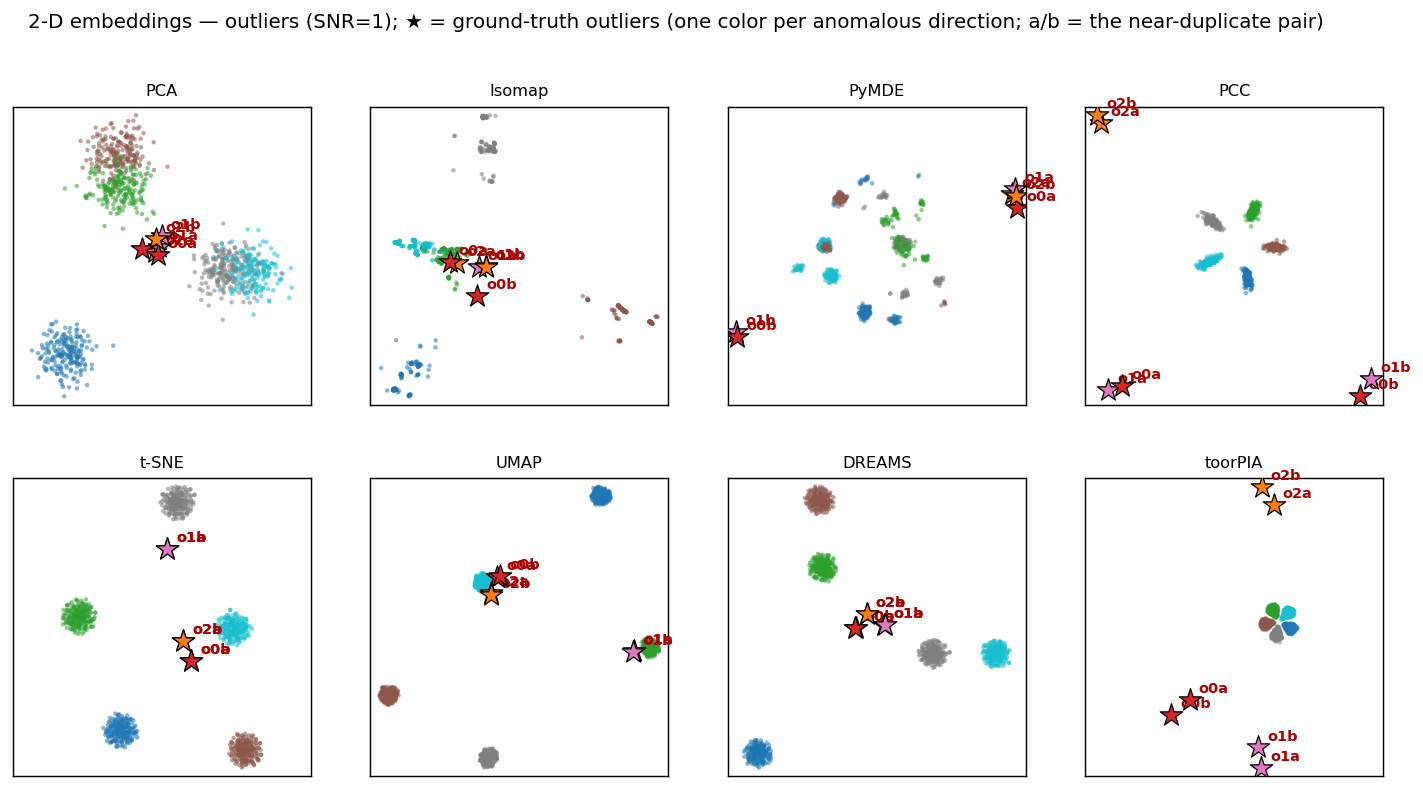
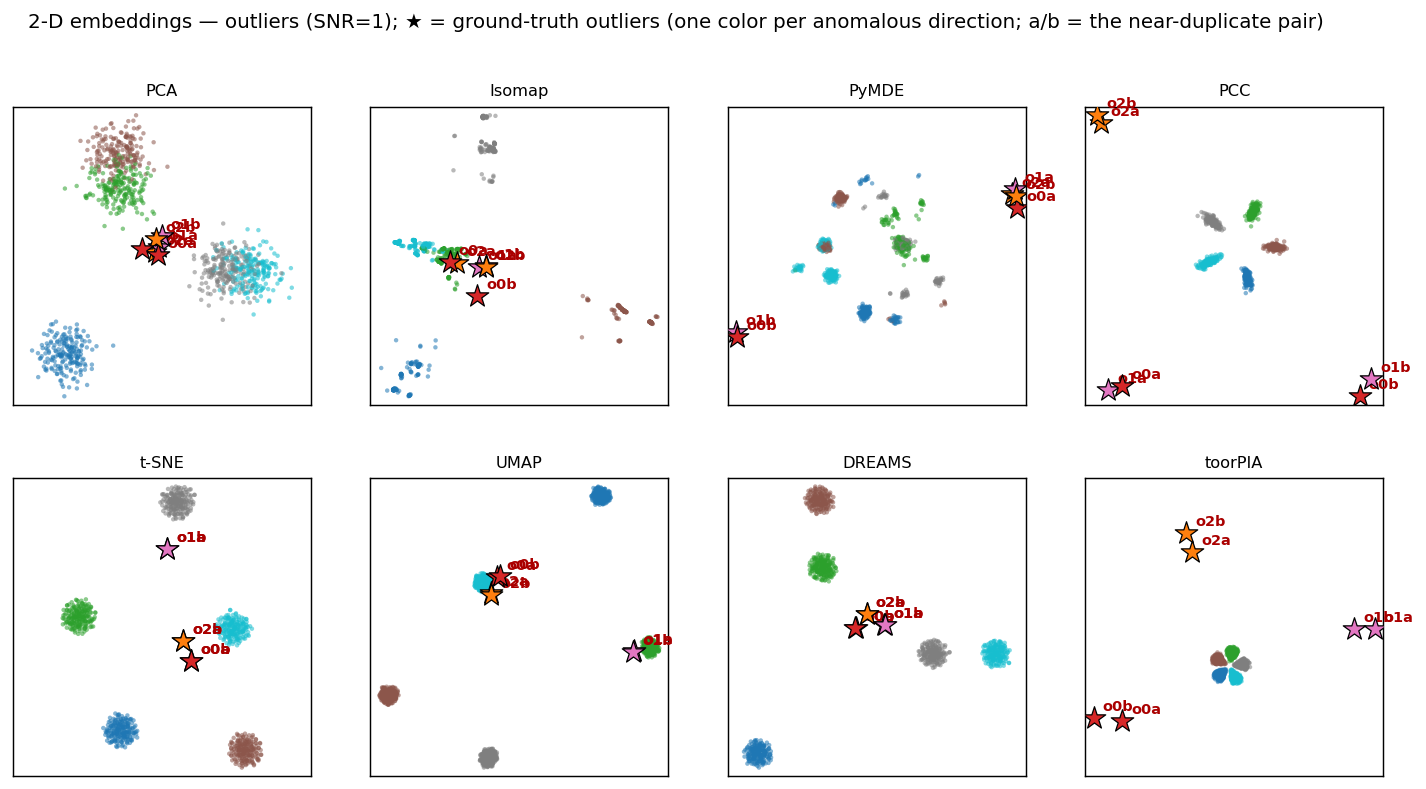
Refresh the paper to the v1.4.0 results and restore the eighth table row
The table generator capped every table at seven method rows, so once DREAMS
became the eighth method the last row of each table was silently dropped
(UMAP on density/outliers, Isomap on clusters/transition/populations, and
toorPIA on the addplot table that the supplement text is about). The
generator now takes every row and asserts eight.

Tables are regenerated from the v1.4.0 REPORT.md, the eleven figures that
changed at v1.4.0 are recopied, and the inline numbers follow (toorPIA only;
all other methods are unchanged). The populations table now carries the
minority-pair rho as a third scored column; the text states that PCA tops
that column and why the diagnostic pair, not the composite, is the reading.
Data Availability cites the v1.4.0 version DOI; CITATION.cff lists the
v1.3.0 and v1.4.0 version DOIs. main.tex starts with \pdfoutput=1 for
arXiv's pdflatex path, and the arXiv metadata abstract (1920-char limit) is
kept alongside the sources.

diff --git a/paper/main.tex b/paper/main.tex
@@ -1,3 +1,4 @@
+\pdfoutput=1
 \documentclass[11pt]{article}
 
 \usepackage[utf8]{inputenc}
@@ -412,10 +413,13 @@ Each dataset's ranking table scores \emph{distance fidelity only}. The
 methods are ordered twice --- by full $\rho$ and by first-mode near $\rho$
 (both vs.-ambient) --- and each order awards 5 points to the 1st place down
 to 1 point to the 5th (6th--8th receive 0). The composite $\Sigma$ is the
-sum of the two, and rows are sorted by $\Sigma$. The outliers dataset adds a
-third scored column on the anomaly-pair $\rho$ (same $5\ldots1$ scheme,
-$\Sigma$ = full + near + outlier), so a method cannot rank well there while
-failing the single-point question. The $k$-NN reference block is deliberately
+sum of the two, and rows are sorted by $\Sigma$. The outliers and
+populations datasets each add a third scored column on a
+membership-restricted $\rho$ (same $5\ldots1$ scheme, $\Sigma$ = full +
+near + third): the anomaly-pair $\rho$ on outliers and the minority-pair
+$\rho$ (pairs with at least one minority endpoint) on populations, so a
+method cannot rank well there while failing the single-point or the
+minority question. The $k$-NN reference block is deliberately
 unscored (\S\ref{sec:recallbias}).
 
 Aggregation follows one convention throughout: stochastic methods run
@@ -569,7 +573,7 @@ two datasets connect continuously.
 \section{Results}
 \label{sec:results}
 
-All ranking tables report the committed v1.3.0 results at SNR${=}1$
+All ranking tables report the committed v1.4.0 results at SNR${=}1$
 ($D{=}768$, $N{=}1000$); $\rho$ values are vs.-ambient (the noisy distances
 the methods actually saw). The corresponding vs.-truth values are committed in
 the artifact's per-run CSVs and lead to the same qualitative conclusions.
@@ -640,7 +644,7 @@ fixed-radius global column.
 Seven small dense Gaussian clusters on mutually orthogonal axes (the global
 geometry spans six affine dimensions, so a 2-D linear projection cannot win by
 construction). toorPIA tops the composite ($\Sigma{=}8$: best global $\rho$
-0.586, third-best near band); DREAMS leads the near band (0.469, ahead of
+0.585, third-best near band); DREAMS leads the near band (0.469, ahead of
 t-SNE's 0.393) and places second ($\Sigma{=}6$) despite a fifth-place global
 $\rho$ (0.413); PCC again pairs a competitive global $\rho$ with an
 $\approx$9$\times$ crush of the tightest cluster (Table~\ref{tab:clusters}).
@@ -737,9 +741,9 @@ standard statistic used everywhere else, restricted by \emph{endpoint
 membership} instead of by distance percentile: the anomaly-pair Shepard $\rho$
 (``outlier $\rho$''), which feeds the composite as a third $5..1$ column so
 that no local reading can outrank it (Table~\ref{tab:outliers}). toorPIA is
-clearly first (outlier $\rho$ 0.615, deterministic --- $\approx$4$\times$ the
+clearly first (outlier $\rho$ 0.649, deterministic --- $\approx$4$\times$ the
 runner-up PCA at 0.156), pairs each same-kind anomaly co-directionally
-(pair angle $\le$10$^\circ$), and holds the best global $\rho$ (0.759). The
+(pair angle $\le$10$^\circ$), and holds the best global $\rho$ (0.768). The
 neighbor-graph methods sit at the bottom (t-SNE 0.083, UMAP 0.062): their
 anomalies land at or inside bulk clusters --- t-SNE additionally fuses each
 same-kind pair into a single point, a failure that a local $k$-NN reading
@@ -782,8 +786,8 @@ population whose composition is unknown in advance. Extracting the minority
 from the map requires two readings positive \emph{at once}: the minority drawn
 as a recognizable separate group (cross-population $\rho$) and a trustworthy
 internal structure (minority-internal $\rho$). At 5\%, only toorPIA holds both
-clearly positive (minority-internal 0.211, cross-population 0.654, best global
-$\rho$ 0.813, deterministic). PCA places the minority correctly
+clearly positive (minority-internal 0.244, cross-population 0.660, best global
+$\rho$ 0.821, deterministic). PCA places the minority correctly
 (cross-population 0.683, the best) but its internal structure is gone
 (minority-internal $-0.025$: a correctly placed featureless blob). t-SNE and
 UMAP are the mirror image --- strong minority internals (0.658 / 0.451) with
@@ -792,9 +796,16 @@ distance information. DREAMS inherits exactly t-SNE's failure mode at a
 higher score: minority-internal 0.652 with cross-population 0.068 --- the
 minority is drawn as a coherent group flung to an arbitrary position --- and
 because its near-band $\rho$ (0.469) again leads, DREAMS \emph{ties} toorPIA
-on the two-column composite ($\Sigma{=}8$) while failing the reading the
-dataset exists to test; the diagnostic pair, not the composite, separates
-them. PCC fails both (0.023 / 0.198) --- and the failure is
+on the near + global columns ($5{+}3$ vs.\ $3{+}5$) while failing the reading
+the dataset exists to test; only the third scored column separates them
+($\Sigma{=}12$ vs.\ 10). That column --- the minority-pair $\rho$ over
+every pair with at least one minority endpoint --- is the single number that
+drops if either reading fails (DREAMS 0.137, t-SNE 0.070, UMAP 0.046), but it
+is not the full reading by itself: PCA tops it (0.706, ahead of toorPIA's
+0.685) because at 5\% the minority--majority pairs make up 95\% of the
+minority-involving pairs, so a correctly \emph{placed} blob with no internal
+structure still scores high; the diagnostic pair, not any single composite,
+separates the methods. PCC fails both (0.023 / 0.198) --- and the failure is
 \emph{silent}: PCC still posts the second-best global $\rho$ (0.761), so
 nothing in the global metric warns that the minority was destroyed. This is
 consistent with reference-point subsampling: pairs internal to the minority
@@ -856,17 +867,17 @@ and PCC --- expose no out-of-sample operation at all; for monitoring, that is
 itself the finding: adding data means re-fitting, and a re-fit re-arranges the
 map. Among the operable methods (Table~\ref{tab:addplot}), only toorPIA
 answers both questions: every anomaly lands far outside the normal region
-(median 9.7$\times$ the bulk radius, minimum 8.6$\times$; deterministic) and
+(median 9.7$\times$ the bulk radius, minimum 8.7$\times$; deterministic) and
 its direction identifies the source cluster (attribution 10/10, median angle
-to its own cluster 1.0$^\circ$, pair angle 1.7$^\circ$). For PCA, Isomap,
+to its own cluster 0.9$^\circ$, pair angle 0.6$^\circ$). For PCA, Isomap,
 UMAP, and DREAMS the anomalies land \emph{inside or at} the normal clusters
 (median
-radius ratios 0.96--1.34, minima down to 0.26): the anomaly is drawn as just
+radius ratios 0.97--1.34, minima down to 0.28): the anomaly is drawn as just
 another normal point of its source cluster, so the nominally high attribution
 accuracy (0.8--1.0) carries no alarm --- detection silently fails. DREAMS is
 the sharpest instance of the pattern: the best attribution geometry of the
-non-toorPIA methods (median own-cluster angle 0.8$^\circ$, pair angle
-0.2$^\circ$) attached to a median radius ratio of 1.04 --- a perfect
+non-toorPIA methods (median own-cluster angle 0.5$^\circ$, pair angle
+0.3$^\circ$) attached to a median radius ratio of 1.04 --- a perfect
 direction with no alarm. Added
 normal controls land correctly for every operable method (ratio 0.87--1.07).
 
@@ -937,8 +948,9 @@ family) are always reported alongside the primary ones.
 The transparency this buys is visible in the results themselves: the
 first-mode near band goes to DREAMS --- not toorPIA --- on every
 one of the five datasets; on the transition dataset the composite goes to
-PCC with toorPIA joint third (\S\ref{sec:transition}); on populations DREAMS
-ties toorPIA's composite $\Sigma$ (\S\ref{sec:populations}); and the
+PCC with toorPIA joint third (\S\ref{sec:transition}); on populations the
+scored minority-pair $\rho$ goes to PCA, not toorPIA, and DREAMS ties toorPIA
+on the near + global columns (\S\ref{sec:populations}); and the
 hyperparameter-sensitivity
 sweep discloses that tuned t-SNE overtakes the near-band $\rho$ leaders on
 density and draws level with toorPIA's density composite
@@ -995,24 +1007,24 @@ the methods the $k$-NN reference favors; a recent local-plus-global hybrid
 (DREAMS) that takes the near band on every dataset yet fails the same
 single-point and minority-placement questions as the neighbor-graph family
 --- a failure only the membership-restricted $\rho$ exposes, since on
-populations its two-column composite ties the leader's; and, out of sample,
+populations its near + global columns tie the leader's; and, out of sample,
 one method
 alone placing a never-seen anomaly outside the normal region with a
 direction that identifies its source. No method wins everything --- toorPIA
-leads the composite on density, clusters, and outliers, ties DREAMS on
-populations, and is joint third on
+leads the composite on density, clusters, outliers, and populations, and is
+joint third on
 transition, while DREAMS owns the near band everywhere --- and the
 benchmark reports all of it. Because every number is recomputable offline
 from committed artifacts, including the closed-source method's output
-coordinates, the release (v1.3.0, archived on Zenodo) is intended as a
+coordinates, the release (v1.4.0, archived on Zenodo) is intended as a
 reproducible, externally citable characterization that future work --- and
 other people's papers --- can cite instead of vendor claims.
 
 \section*{Data and Code Availability}
 The benchmark code, committed results, figures, and toorPIA output-coordinate
 caches are available at \url{https://github.com/toorpia/dr-fidelity-benchmark}
-(release tag v1.3.0), archived at Zenodo (version DOI
-\href{https://doi.org/10.5281/zenodo.21366902}{10.5281/zenodo.21366902};
+(release tag v1.4.0), archived at Zenodo (version DOI
+\href{https://doi.org/10.5281/zenodo.21380823}{10.5281/zenodo.21380823};
 all versions:
 \href{https://doi.org/10.5281/zenodo.21189374}{10.5281/zenodo.21189374}).
 This paper reports the results committed at that tag.

diff --git a/paper/tables/populations.tex b/paper/tables/populations.tex
@@ -1,20 +1,21 @@
 % AUTO-GENERATED from REPORT.md --- do not hand-edit values
 \begin{table}[t]
 \centering
-\caption{Imbalanced two populations (95\% vs.\ 5\%): distance-fidelity ranking at SNR${=}1$.\; Composite points: 1st$\to$5 \dots\ 5th$\to$1 on the full-$\rho$ order and on the near-$\rho$ order; rows sorted by $\Sigma$. $\rho$ columns are Shepard (Spearman) correlations vs.-ambient. \textbf{Bold} = best in column, \textit{italic} = worst; \textsuperscript{\dag} = outright-failure flag (negative near-band $\rho$, or worst tight-cluster crush exceeding $5\times$). Brackets are bootstrap 95\% CIs over $R{=}3$ seeds; deterministic methods (PCA, Isomap, DREAMS, toorPIA) show point values. recall/trust/continuity are the variable-radius $k$-NN reference block (biased; unscored). Values transcribed verbatim from the v1.3.0 committed results.}
+\caption{Imbalanced two populations (95\% vs.\ 5\%): distance-fidelity ranking at SNR${=}1$.\; Composite points: 1st$\to$5 \dots\ 5th$\to$1 on the full-$\rho$ order and on the near-$\rho$ order and on the minority-$\rho$ order; rows sorted by $\Sigma$. $\rho$ columns are Shepard (Spearman) correlations vs.-ambient. \textbf{Bold} = best in column, \textit{italic} = worst; \textsuperscript{\dag} = outright-failure flag (negative near-band $\rho$, or worst tight-cluster crush exceeding $5\times$). Brackets are bootstrap 95\% CIs over $R{=}3$ seeds; deterministic methods (PCA, Isomap, DREAMS, toorPIA) show point values. recall/trust/continuity are the variable-radius $k$-NN reference block (biased; unscored). Values transcribed verbatim from the v1.4.0 committed results.}
 \label{tab:populations}
 \resizebox{\textwidth}{!}{%
-\begin{tabular}{lccccccccc}
+\begin{tabular}{lccccccccccc}
 \toprule
-method & full & near & $\Sigma$ & full $\rho$ (global) & near $\rho$ (first-mode) & scale $\times$ & recall@15 & trust@15 & cont.@15 \\
+method & full & near & minor. & $\Sigma$ & full $\rho$ (global) & near $\rho$ (first-mode) & scale $\times$ & recall@15 & trust@15 & cont.@15 & minority $\rho$ \\
 \midrule
-toorPIA & \textbf{5} & 3 & \textbf{8} & \textbf{0.813} & 0.254 & 0.728 & 0.138 & 0.935 & 0.938 \\
-DREAMS & 3 & \textbf{5} & \textbf{8} & 0.638 & \textbf{0.469} & 3.322 & 0.253 & \textbf{0.949} & \textbf{0.961} \\
-PCC & 4 & 2 & 6 & 0.761 {\scriptsize[0.753, 0.764]} & 0.225 {\scriptsize[0.222, 0.234]} & 2.496 {\scriptsize[2.309, 2.650]} & 0.133 {\scriptsize[0.132, 0.134]} & 0.933 {\scriptsize[0.930, 0.935]} & 0.923 {\scriptsize[0.922, 0.936]} \\
-t-SNE & \textit{0} & 4 & 4 & 0.507 {\scriptsize[0.484, 0.518]} & 0.371 {\scriptsize[0.365, 0.375]} & 2.415 {\scriptsize[2.355, 2.438]} & \textbf{0.275 {\scriptsize[0.275, 0.276]}} & 0.948 & 0.957 {\scriptsize[0.956, 0.957]} \\
-PCA & 2 & 1 & 3 & 0.608 & 0.136 & 1.273 & \textit{0.080} & \textit{0.771} & 0.867 \\
-PyMDE & 1 & \textit{0} & 1 & 0.595 {\scriptsize[0.594, 0.666]} & 0.103 {\scriptsize[0.089, 0.125]} & 0.343 {\scriptsize[0.299, 3.383]} & 0.104 {\scriptsize[0.103, 0.105]} & 0.853 {\scriptsize[0.817, 0.869]} & \textit{0.773 {\scriptsize[0.756, 0.817]}} \\
-UMAP & \textit{0} & \textit{0} & \textit{0} & 0.445 {\scriptsize[0.411, 0.466]} & 0.108 {\scriptsize[0.104, 0.115]} & 5.407 {\scriptsize[4.442, 5.771]}\,\textsuperscript{\dag} & 0.200 {\scriptsize[0.199, 0.202]} & 0.934 {\scriptsize[0.931, 0.934]} & 0.933 {\scriptsize[0.933, 0.935]} \\
+toorPIA & \textbf{5} & 3 & 4 & \textbf{12} & \textbf{0.821} & 0.251 & 0.726 & 0.143 & 0.935 & 0.937 & 0.685 \\
+DREAMS & 3 & \textbf{5} & 2 & 10 & 0.638 & \textbf{0.469} & 3.322 & 0.253 & \textbf{0.949} & \textbf{0.961} & 0.137 \\
+PCC & 4 & 2 & 3 & 9 & 0.761 {\scriptsize[0.753, 0.764]} & 0.225 {\scriptsize[0.222, 0.234]} & 2.496 {\scriptsize[2.309, 2.650]} & 0.133 {\scriptsize[0.132, 0.134]} & 0.933 {\scriptsize[0.930, 0.935]} & 0.923 {\scriptsize[0.922, 0.936]} & 0.211 {\scriptsize[0.205, 0.255]} \\
+PCA & 2 & 1 & \textbf{5} & 8 & 0.608 & 0.136 & 1.273 & \textit{0.080} & \textit{0.771} & 0.867 & \textbf{0.706} \\
+t-SNE & \textit{0} & 4 & \textit{0} & 4 & 0.507 {\scriptsize[0.484, 0.518]} & 0.371 {\scriptsize[0.365, 0.375]} & 2.415 {\scriptsize[2.355, 2.438]} & \textbf{0.275 {\scriptsize[0.275, 0.276]}} & 0.948 & 0.957 {\scriptsize[0.956, 0.957]} & 0.070 {\scriptsize[0.047, 0.110]} \\
+PyMDE & 1 & \textit{0} & 1 & 2 & 0.595 {\scriptsize[0.594, 0.666]} & 0.103 {\scriptsize[0.089, 0.125]} & 0.343 {\scriptsize[0.299, 3.383]} & 0.104 {\scriptsize[0.103, 0.105]} & 0.853 {\scriptsize[0.817, 0.869]} & \textit{0.773 {\scriptsize[0.756, 0.817]}} & 0.087 {\scriptsize[0.041, 0.124]} \\
+UMAP & \textit{0} & \textit{0} & \textit{0} & \textit{0} & 0.445 {\scriptsize[0.411, 0.466]} & 0.108 {\scriptsize[0.104, 0.115]} & 5.407 {\scriptsize[4.442, 5.771]}\,\textsuperscript{\dag} & 0.200 {\scriptsize[0.199, 0.202]} & 0.934 {\scriptsize[0.931, 0.934]} & 0.933 {\scriptsize[0.933, 0.935]} & \textit{0.046 {\scriptsize[-0.033, 0.055]}} \\
+Isomap & \textit{0} & \textit{0} & \textit{0} & \textit{0} & \textit{0.346} & -0.022\,\textsuperscript{\dag} & \textbf{0.913} & 0.096 & 0.883 & 0.879 & 0.079 \\
 \bottomrule
 \end{tabular}}%
 \end{table}

diff --git a/paper/tables/outliers.tex b/paper/tables/outliers.tex
@@ -1,20 +1,21 @@
 % AUTO-GENERATED from REPORT.md --- do not hand-edit values
 \begin{table}[t]
 \centering
-\caption{Off-subspace outliers: distance-fidelity ranking at SNR${=}1$.\; Composite points: 1st$\to$5 \dots\ 5th$\to$1 on the full-$\rho$ order and on the near-$\rho$ order and on the outlier-$\rho$ order; rows sorted by $\Sigma$. $\rho$ columns are Shepard (Spearman) correlations vs.-ambient. \textbf{Bold} = best in column, \textit{italic} = worst; \textsuperscript{\dag} = outright-failure flag (negative near-band $\rho$, or worst tight-cluster crush exceeding $5\times$). Brackets are bootstrap 95\% CIs over $R{=}3$ seeds; deterministic methods (PCA, Isomap, DREAMS, toorPIA) show point values. recall/trust/continuity are the variable-radius $k$-NN reference block (biased; unscored). Values transcribed verbatim from the v1.3.0 committed results.}
+\caption{Off-subspace outliers: distance-fidelity ranking at SNR${=}1$.\; Composite points: 1st$\to$5 \dots\ 5th$\to$1 on the full-$\rho$ order and on the near-$\rho$ order and on the outlier-$\rho$ order; rows sorted by $\Sigma$. $\rho$ columns are Shepard (Spearman) correlations vs.-ambient. \textbf{Bold} = best in column, \textit{italic} = worst; \textsuperscript{\dag} = outright-failure flag (negative near-band $\rho$, or worst tight-cluster crush exceeding $5\times$). Brackets are bootstrap 95\% CIs over $R{=}3$ seeds; deterministic methods (PCA, Isomap, DREAMS, toorPIA) show point values. recall/trust/continuity are the variable-radius $k$-NN reference block (biased; unscored). Values transcribed verbatim from the v1.4.0 committed results.}
 \label{tab:outliers}
 \resizebox{\textwidth}{!}{%
 \begin{tabular}{lccccccccccc}
 \toprule
 method & full & near & outl. & $\Sigma$ & full $\rho$ (global) & near $\rho$ (first-mode) & scale $\times$ & recall@15 & trust@15 & cont.@15 & outlier $\rho$ \\
 \midrule
-toorPIA & \textbf{5} & 3 & \textbf{5} & \textbf{13} & \textbf{0.759} & 0.253 & \textbf{0.749} & 0.127 & 0.927 & 0.934 & \textbf{0.615} \\
+toorPIA & \textbf{5} & 3 & \textbf{5} & \textbf{13} & \textbf{0.768} & 0.257 & \textbf{0.756} & 0.127 & 0.927 & 0.933 & \textbf{0.649} \\
 PCA & 3 & 2 & 4 & 9 & 0.585 & 0.249 & 1.482 & 0.104 & 0.845 & 0.906 & 0.156 \\
 PCC & 4 & 1 & 3 & 8 & 0.707 {\scriptsize[0.696, 0.708]} & 0.248 {\scriptsize[0.242, 0.248]} & 2.089 {\scriptsize[2.025, 2.171]} & 0.125 {\scriptsize[0.125, 0.127]} & 0.926 {\scriptsize[0.926, 0.926]} & 0.933 & 0.154 {\scriptsize[0.114, 0.164]} \\
 DREAMS & 1 & \textbf{5} & \textit{0} & 6 & 0.515 & \textbf{0.477} & 3.978 & 0.223 & 0.944 & \textbf{0.956} & 0.055 \\
 t-SNE & \textit{0} & 4 & 1 & 5 & 0.481 {\scriptsize[0.480, 0.502]} & 0.403 {\scriptsize[0.401, 0.406]} & 2.417 {\scriptsize[2.397, 2.434]} & \textbf{0.247 {\scriptsize[0.246, 0.250]}} & \textbf{0.944 {\scriptsize[0.943, 0.945]}} & 0.952 {\scriptsize[0.951, 0.952]} & 0.083 {\scriptsize[0.047, 0.136]} \\
 PyMDE & 2 & \textit{0} & \textit{0} & 2 & 0.527 {\scriptsize[0.506, 0.580]} & 0.134 {\scriptsize[0.115, 0.141]} & 0.722 {\scriptsize[0.359, 2.135]} & 0.095 {\scriptsize[0.090, 0.096]} & \textit{0.837 {\scriptsize[0.823, 0.846]}} & \textit{0.797 {\scriptsize[0.777, 0.829]}} & \textit{0.033 {\scriptsize[0.006, 0.035]}} \\
 Isomap & \textit{0} & \textit{0} & 2 & 2 & 0.490 & \textit{0.016} & 1.887 & \textit{0.089} & 0.907 & 0.912 & 0.153 \\
+UMAP & \textit{0} & \textit{0} & \textit{0} & \textit{0} & \textit{0.464 {\scriptsize[0.459, 0.475]}} & 0.158 {\scriptsize[0.156, 0.166]} & 4.894 {\scriptsize[4.578, 4.964]} & 0.182 {\scriptsize[0.180, 0.182]} & 0.929 {\scriptsize[0.929, 0.930]} & 0.941 {\scriptsize[0.940, 0.941]} & 0.062 {\scriptsize[-0.005, 0.111]} \\
 \bottomrule
 \end{tabular}}%
 \end{table}

diff --git a/paper/tables/density.tex b/paper/tables/density.tex
@@ -1,20 +1,21 @@
 % AUTO-GENERATED from REPORT.md --- do not hand-edit values
 \begin{table}[t]
 \centering
-\caption{Non-uniform density: distance-fidelity ranking at SNR${=}1$.\; Composite points: 1st$\to$5 \dots\ 5th$\to$1 on the full-$\rho$ order and on the near-$\rho$ order; rows sorted by $\Sigma$. $\rho$ columns are Shepard (Spearman) correlations vs.-ambient. \textbf{Bold} = best in column, \textit{italic} = worst; \textsuperscript{\dag} = outright-failure flag (negative near-band $\rho$, or worst tight-cluster crush exceeding $5\times$). Brackets are bootstrap 95\% CIs over $R{=}3$ seeds; deterministic methods (PCA, Isomap, DREAMS, toorPIA) show point values. recall/trust/continuity are the variable-radius $k$-NN reference block (biased; unscored). Values transcribed verbatim from the v1.3.0 committed results.}
+\caption{Non-uniform density: distance-fidelity ranking at SNR${=}1$.\; Composite points: 1st$\to$5 \dots\ 5th$\to$1 on the full-$\rho$ order and on the near-$\rho$ order; rows sorted by $\Sigma$. $\rho$ columns are Shepard (Spearman) correlations vs.-ambient. \textbf{Bold} = best in column, \textit{italic} = worst; \textsuperscript{\dag} = outright-failure flag (negative near-band $\rho$, or worst tight-cluster crush exceeding $5\times$). Brackets are bootstrap 95\% CIs over $R{=}3$ seeds; deterministic methods (PCA, Isomap, DREAMS, toorPIA) show point values. recall/trust/continuity are the variable-radius $k$-NN reference block (biased; unscored). Values transcribed verbatim from the v1.4.0 committed results.}
 \label{tab:density}
 \resizebox{\textwidth}{!}{%
 \begin{tabular}{lccccccccc}
 \toprule
 method & full & near & $\Sigma$ & full $\rho$ (global) & near $\rho$ (first-mode) & scale $\times$ & recall@15 & trust@15 & cont.@15 \\
 \midrule
-toorPIA & 4 & 4 & \textbf{8} & 0.815 & 0.312 & 0.438 & 0.068 & 0.628 & \textbf{0.822} \\
+toorPIA & 4 & 4 & \textbf{8} & 0.815 & 0.312 & 0.438 & 0.067 & 0.627 & \textbf{0.821} \\
 DREAMS & 1 & \textbf{5} & 6 & 0.585 & \textbf{0.363} & 0.239 & 0.245 & \textbf{0.776} & 0.804 \\
 PCC & \textbf{5} & \textit{0} & 5 & \textbf{0.820 {\scriptsize[0.816, 0.824]}} & -0.028 {\scriptsize[-0.047, -0.002]}\,\textsuperscript{\dag} & 93.468 {\scriptsize[93.389, 93.583]}\,\textsuperscript{\dag} & 0.056 {\scriptsize[0.055, 0.059]} & 0.603 {\scriptsize[0.593, 0.604]} & 0.753 {\scriptsize[0.749, 0.759]} \\
 PCA & 3 & 1 & 4 & 0.699 & 0.093 & \textbf{0.728} & 0.069 & 0.628 & 0.785 \\
 PyMDE & 2 & 2 & 4 & 0.598 {\scriptsize[0.598, 0.608]} & 0.218 {\scriptsize[0.202, 0.254]} & 0.460 {\scriptsize[0.419, 0.516]} & \textit{0.043 {\scriptsize[0.041, 0.047]}} & \textit{0.568 {\scriptsize[0.567, 0.570]}} & \textit{0.634 {\scriptsize[0.632, 0.646]}} \\
 t-SNE & \textit{0} & 3 & 3 & 0.300 {\scriptsize[0.277, 0.309]} & 0.260 {\scriptsize[0.259, 0.266]} & 0.215 {\scriptsize[0.214, 0.216]} & \textbf{0.254 {\scriptsize[0.250, 0.259]}} & 0.773 {\scriptsize[0.770, 0.779]} & 0.803 {\scriptsize[0.798, 0.803]} \\
 Isomap & \textit{0} & \textit{0} & \textit{0} & 0.559 & -0.038\,\textsuperscript{\dag} & 0.383 & 0.060 & 0.601 & 0.776 \\
+UMAP & \textit{0} & \textit{0} & \textit{0} & \textit{0.156 {\scriptsize[0.154, 0.162]}} & 0.055 {\scriptsize[0.040, 0.057]} & 0.279 {\scriptsize[0.275, 0.283]} & 0.210 {\scriptsize[0.206, 0.213]} & 0.733 {\scriptsize[0.729, 0.734]} & 0.813 {\scriptsize[0.812, 0.815]} \\
 \bottomrule
 \end{tabular}}%
 \end{table}

diff --git a/paper/tables/clusters.tex b/paper/tables/clusters.tex
@@ -1,20 +1,21 @@
 % AUTO-GENERATED from REPORT.md --- do not hand-edit values
 \begin{table}[t]
 \centering
-\caption{Distinct dense clusters: distance-fidelity ranking at SNR${=}1$.\; Composite points: 1st$\to$5 \dots\ 5th$\to$1 on the full-$\rho$ order and on the near-$\rho$ order; rows sorted by $\Sigma$. $\rho$ columns are Shepard (Spearman) correlations vs.-ambient. \textbf{Bold} = best in column, \textit{italic} = worst; \textsuperscript{\dag} = outright-failure flag (negative near-band $\rho$, or worst tight-cluster crush exceeding $5\times$). Brackets are bootstrap 95\% CIs over $R{=}3$ seeds; deterministic methods (PCA, Isomap, DREAMS, toorPIA) show point values. recall/trust/continuity are the variable-radius $k$-NN reference block (biased; unscored). Values transcribed verbatim from the v1.3.0 committed results.}
+\caption{Distinct dense clusters: distance-fidelity ranking at SNR${=}1$.\; Composite points: 1st$\to$5 \dots\ 5th$\to$1 on the full-$\rho$ order and on the near-$\rho$ order; rows sorted by $\Sigma$. $\rho$ columns are Shepard (Spearman) correlations vs.-ambient. \textbf{Bold} = best in column, \textit{italic} = worst; \textsuperscript{\dag} = outright-failure flag (negative near-band $\rho$, or worst tight-cluster crush exceeding $5\times$). Brackets are bootstrap 95\% CIs over $R{=}3$ seeds; deterministic methods (PCA, Isomap, DREAMS, toorPIA) show point values. recall/trust/continuity are the variable-radius $k$-NN reference block (biased; unscored). Values transcribed verbatim from the v1.4.0 committed results.}
 \label{tab:clusters}
 \resizebox{\textwidth}{!}{%
 \begin{tabular}{lccccccccc}
 \toprule
 method & full & near & $\Sigma$ & full $\rho$ (global) & near $\rho$ (first-mode) & scale $\times$ & recall@15 & trust@15 & cont.@15 \\
 \midrule
-toorPIA & \textbf{5} & 3 & \textbf{8} & \textbf{0.586} & 0.248 & 0.518 & 0.139 & 0.949 & 0.954 \\
+toorPIA & \textbf{5} & 3 & \textbf{8} & \textbf{0.585} & 0.234 & 0.517 & 0.140 & 0.949 & 0.954 \\
 DREAMS & 1 & \textbf{5} & 6 & 0.413 & \textbf{0.469} & 2.634 & 0.251 & \textbf{0.960} & \textbf{0.970} \\
 PyMDE & 4 & \textit{0} & 4 & 0.493 {\scriptsize[0.423, 0.519]} & 0.111 {\scriptsize[0.067, 0.118]} & 0.168 {\scriptsize[0.159, 1.378]} & \textit{0.075 {\scriptsize[0.073, 0.087]}} & \textit{0.758 {\scriptsize[0.736, 0.798]}} & \textit{0.827 {\scriptsize[0.782, 0.864]}} \\
 PCC & 3 & 1 & 4 & 0.476 {\scriptsize[0.456, 0.480]} & 0.132 {\scriptsize[0.132, 0.171]} & 8.857 {\scriptsize[6.598, 10.135]}\,\textsuperscript{\dag} & 0.123 {\scriptsize[0.123, 0.128]} & 0.945 & 0.947 {\scriptsize[0.947, 0.948]} \\
 PCA & 2 & 2 & 4 & 0.464 & 0.135 & \textbf{0.882} & 0.127 & 0.915 & 0.938 \\
 t-SNE & \textit{0} & 4 & 4 & 0.367 {\scriptsize[0.364, 0.374]} & 0.393 {\scriptsize[0.391, 0.394]} & 1.600 {\scriptsize[1.587, 1.643]} & \textbf{0.270 {\scriptsize[0.263, 0.271]}} & 0.959 & 0.967 {\scriptsize[0.967, 0.968]} \\
 UMAP & \textit{0} & \textit{0} & \textit{0} & 0.359 {\scriptsize[0.345, 0.366]} & 0.093 {\scriptsize[0.087, 0.103]} & 3.281 {\scriptsize[3.124, 3.512]} & 0.196 {\scriptsize[0.189, 0.198]} & 0.949 {\scriptsize[0.948, 0.949]} & 0.956 {\scriptsize[0.956, 0.957]} \\
+Isomap & \textit{0} & \textit{0} & \textit{0} & \textit{0.337} & -0.056\,\textsuperscript{\dag} & 0.440 & 0.089 & 0.869 & 0.885 \\
 \bottomrule
 \end{tabular}}%
 \end{table}

diff --git a/paper/tables/transition.tex b/paper/tables/transition.tex
@@ -1,7 +1,7 @@
 % AUTO-GENERATED from REPORT.md --- do not hand-edit values
 \begin{table}[t]
 \centering
-\caption{Continuous closed-loop transition: distance-fidelity ranking at SNR${=}1$.\; Composite points: 1st$\to$5 \dots\ 5th$\to$1 on the full-$\rho$ order and on the near-$\rho$ order; rows sorted by $\Sigma$. $\rho$ columns are Shepard (Spearman) correlations vs.-ambient. \textbf{Bold} = best in column, \textit{italic} = worst; \textsuperscript{\dag} = outright-failure flag (negative near-band $\rho$, or worst tight-cluster crush exceeding $5\times$). Brackets are bootstrap 95\% CIs over $R{=}3$ seeds; deterministic methods (PCA, Isomap, DREAMS, toorPIA) show point values. recall/trust/continuity are the variable-radius $k$-NN reference block (biased; unscored). Values transcribed verbatim from the v1.3.0 committed results.}
+\caption{Continuous closed-loop transition: distance-fidelity ranking at SNR${=}1$.\; Composite points: 1st$\to$5 \dots\ 5th$\to$1 on the full-$\rho$ order and on the near-$\rho$ order; rows sorted by $\Sigma$. $\rho$ columns are Shepard (Spearman) correlations vs.-ambient. \textbf{Bold} = best in column, \textit{italic} = worst; \textsuperscript{\dag} = outright-failure flag (negative near-band $\rho$, or worst tight-cluster crush exceeding $5\times$). Brackets are bootstrap 95\% CIs over $R{=}3$ seeds; deterministic methods (PCA, Isomap, DREAMS, toorPIA) show point values. recall/trust/continuity are the variable-radius $k$-NN reference block (biased; unscored). Values transcribed verbatim from the v1.4.0 committed results.}
 \label{tab:transition}
 \resizebox{\textwidth}{!}{%
 \begin{tabular}{lccccccccc}
@@ -10,11 +10,12 @@ method & full & near & $\Sigma$ & full $\rho$ (global) & near $\rho$ (first-mode
 \midrule
 PCC & 4 & 3 & \textbf{7} & 0.640 {\scriptsize[0.639, 0.648]} & 0.727 {\scriptsize[0.725, 0.729]} & 2.112 {\scriptsize[1.791, 2.140]} & 0.204 {\scriptsize[0.203, 0.209]} & 0.947 {\scriptsize[0.947, 0.948]} & 0.962 {\scriptsize[0.962, 0.964]} \\
 t-SNE & 2 & 4 & 6 & 0.556 {\scriptsize[0.501, 0.559]} & 0.753 {\scriptsize[0.747, 0.754]} & \textbf{1.022 {\scriptsize[0.962, 1.042]}} & \textbf{0.363 {\scriptsize[0.363, 0.364]}} & \textbf{0.974} & 0.976 {\scriptsize[0.974, 0.976]} \\
-toorPIA & \textbf{5} & \textit{0} & 5 & \textbf{0.729} & 0.548 & 0.394 & 0.232 & 0.964 & 0.965 \\
+toorPIA & \textbf{5} & \textit{0} & 5 & \textbf{0.729} & 0.547 & 0.394 & 0.234 & 0.964 & 0.965 \\
 DREAMS & \textit{0} & \textbf{5} & 5 & 0.537 & \textbf{0.769} & 1.136 & 0.357 & 0.974 & \textbf{0.977} \\
 PCA & 3 & 1 & 4 & 0.556 & 0.630 & 0.859 & 0.182 & 0.948 & 0.956 \\
 UMAP & \textit{0} & 2 & 2 & \textit{0.483 {\scriptsize[0.473, 0.491]}} & 0.695 {\scriptsize[0.694, 0.699]} & 2.410 {\scriptsize[2.323, 2.490]} & 0.292 {\scriptsize[0.288, 0.296]} & 0.966 {\scriptsize[0.966, 0.967]} & 0.968 {\scriptsize[0.968, 0.968]} \\
 PyMDE & 1 & \textit{0} & 1 & 0.540 {\scriptsize[0.423, 0.581]} & \textit{0.310 {\scriptsize[0.130, 0.446]}} & 0.128 {\scriptsize[0.104, 1.777]} & \textit{0.155 {\scriptsize[0.142, 0.157]}} & \textit{0.823 {\scriptsize[0.810, 0.833]}} & \textit{0.841 {\scriptsize[0.711, 0.853]}} \\
+Isomap & \textit{0} & \textit{0} & \textit{0} & 0.533 & 0.613 & 0.976 & 0.204 & 0.960 & 0.961 \\
 \bottomrule
 \end{tabular}}%
 \end{table}

diff --git a/paper/tools/gen_tables_from_report.py b/paper/tools/gen_tables_from_report.py
@@ -22,6 +22,7 @@ COL_HDR_MAP = {
     'tight-cluster scale ×': r'scale $\times$', 'recall@15': 'recall@15',
     'trust@15': 'trust@15', 'continuity@15': 'cont.@15',
     'outlier ρ': r'outlier $\rho$',
+    'minority pts': 'minor.', 'minority ρ': r'minority $\rho$',
 }
 
 ADDPLOT_HDR_MAP = {
@@ -45,14 +46,21 @@ SPECS = [
 ]
 
 
-def get_table(md, after_heading, max_rows=7):
+def get_table(md, after_heading):
+    """Return (header, body) of the first markdown table after `after_heading`,
+    taking every row of that table (a table ends at the first non-'|' line)."""
     idx = md.find(after_heading)
     assert idx >= 0, f"heading not found: {after_heading}"
-    seg = md[idx:idx + 9000]
-    lines = [l for l in seg.split('\n') if l.strip().startswith('|')]
+    seg = md[idx:].split('\n')
+    start = next(i for i, l in enumerate(seg) if l.strip().startswith('|'))
+    lines = []
+    for l in seg[start:]:
+        if not l.strip().startswith('|'):
+            break
+        lines.append(l)
     header = [c.strip() for c in lines[0].strip('|').split('|')]
-    body = [[c.strip() for c in l.strip('|').split('|')]
-            for l in lines[2:2 + max_rows]]
+    body = [[c.strip() for c in l.strip('|').split('|')] for l in lines[2:]]
+    assert len(body) == 8, f"{after_heading}: expected 8 method rows, got {len(body)}"
     return header, body
 
 
@@ -92,7 +100,7 @@ def make_note(extra):
             r"deterministic methods (PCA, Isomap, DREAMS, toorPIA) show point values. "
             r"recall/trust/continuity are the variable-radius $k$-NN reference "
             r"block (biased; unscored). Values transcribed verbatim from the "
-            r"v1.3.0 committed results.")
+            r"v1.4.0 committed results.")
 
 
 def main():
@@ -110,8 +118,9 @@ def main():
         hdr_tex = ' & '.join(COL_HDR_MAP.get(h, h) for h in header)
         rows_tex = [' & '.join(texify(c) for c in row) + r' \\'
                     for row in body]
-        note = make_note(' and on the outlier-$\\rho$ order'
-                         if name == 'outliers' else '')
+        note = make_note({'outliers': ' and on the outlier-$\\rho$ order',
+                          'populations': ' and on the minority-$\\rho$ order'}
+                         .get(name, ''))
         colspec = 'l' + 'c' * (ncol - 1)
         tex = ("% AUTO-GENERATED from REPORT.md --- do not hand-edit values\n"
                "\\begin{table}[t]\n\\centering\n"
@@ -150,7 +159,7 @@ def main():
            "per call; its regularization acts only at fit time); toorPIA "
            "server-side \\texttt{addplot\\_embedding}. t-SNE, PyMDE, and PCC "
            "expose no out-of-sample operation. Values transcribed verbatim "
-           "from the v1.3.0 committed results.}\n"
+           "from the v1.4.0 committed results.}\n"
            "\\label{tab:addplot}\n"
            "\\resizebox{\\textwidth}{!}{%\n"
            "\\begin{tabular}{lcccccc}\n\\toprule\n"

diff --git a/paper/tables/addplot.tex b/paper/tables/addplot.tex
@@ -1,7 +1,7 @@
 % AUTO-GENERATED from REPORT.md --- do not hand-edit values
 \begin{table}[t]
 \centering
-\caption{Out-of-sample (addplot) monitoring test at SNR${=}1$: cluster-anchored anomalies (3\,Rg along dimensions the normal basemap never varies in) and 50 fresh normal controls, added one at a time to a basemap fitted on normal data only. Detection $=$ anomaly distance from the map centroid over the bulk's median radius (large $=$ visibly outside); attribution $=$ direction from the centroid identifies the source cluster. PCA/Isomap use \texttt{transform}; UMAP a seeded \texttt{transform}; DREAMS openTSNE's partial-optimization \texttt{transform} (one point per call; its regularization acts only at fit time); toorPIA server-side \texttt{addplot\_embedding}. t-SNE, PyMDE, and PCC expose no out-of-sample operation. Values transcribed verbatim from the v1.3.0 committed results.}
+\caption{Out-of-sample (addplot) monitoring test at SNR${=}1$: cluster-anchored anomalies (3\,Rg along dimensions the normal basemap never varies in) and 50 fresh normal controls, added one at a time to a basemap fitted on normal data only. Detection $=$ anomaly distance from the map centroid over the bulk's median radius (large $=$ visibly outside); attribution $=$ direction from the centroid identifies the source cluster. PCA/Isomap use \texttt{transform}; UMAP a seeded \texttt{transform}; DREAMS openTSNE's partial-optimization \texttt{transform} (one point per call; its regularization acts only at fit time); toorPIA server-side \texttt{addplot\_embedding}. t-SNE, PyMDE, and PCC expose no out-of-sample operation. Values transcribed verbatim from the v1.4.0 committed results.}
 \label{tab:addplot}
 \resizebox{\textwidth}{!}{%
 \begin{tabular}{lcccccc}
@@ -14,7 +14,8 @@ PyMDE & \multicolumn{6}{l}{\textit{not operable: pymde optimizes fit coordinates
 PCC & \multicolumn{6}{l}{\textit{not operable: pccdr optimizes fit coordinates; no transform}} \\
 t-SNE & \multicolumn{6}{l}{\textit{not operable: sklearn TSNE has no out-of-sample transform}} \\
 UMAP & 0.971 {\scriptsize[0.962, 1.042]} & 0.281 {\scriptsize[0.261, 0.486]} & 1.000 & 3.334 {\scriptsize[2.176, 3.429]} & 1.559 {\scriptsize[1.220, 3.801]} & 0.939 {\scriptsize[0.935, 1.003]} \\
-DREAMS & 1.038 & 0.532 & 1.000 & 0.819 & 0.240 & 1.066 \\
+DREAMS & 1.037 & 0.533 & 1.000 & 0.530 & 0.293 & 1.070 \\
+toorPIA & 9.732 & 8.654 & 1.000 & 0.890 & 0.630 & 0.959 \\
 \bottomrule
 \end{tabular}}%
 \end{table}

diff --git a/paper/README.md b/paper/README.md
@@ -1,9 +1,9 @@
 # paper/ — arXiv preprint sources
 
-Frozen snapshot of the benchmark results at release tag **v1.2.0** (REPORT.md is the living document; this paper's numbers stay fixed at that tag).
+Frozen snapshot of the benchmark results at release tag **v1.4.0** (REPORT.md is the living document; this paper's numbers stay fixed at that tag).
 
 Build: `pdflatex main && bibtex main && pdflatex main && pdflatex main`
 
-Tables are auto-generated from REPORT.md — never hand-edit values: `python paper/tools/gen_tables_from_report.py` (run from the repo root; regeneration is byte-identical at v1.2.0).
+Tables are auto-generated from REPORT.md — never hand-edit values: `python paper/tools/gen_tables_from_report.py` (run from the repo root; the generator takes every row of each table and asserts eight method rows). Figures are verbatim copies of the 13 `figures/<dataset>/*.png` files the text references (kept as copies so the arXiv zip is self-contained).
 
-Note: `lmodern` is commented out in `main.tex` for local builds without the package; re-enable it for the arXiv submission (arXiv has it).
+Submission zip: `main.tex` + `references.bib` + `main.bbl` + `tables/` + `figures/` (no PDF, no aux files). `main.tex` starts with `\pdfoutput=1` so arXiv compiles it with pdflatex.
